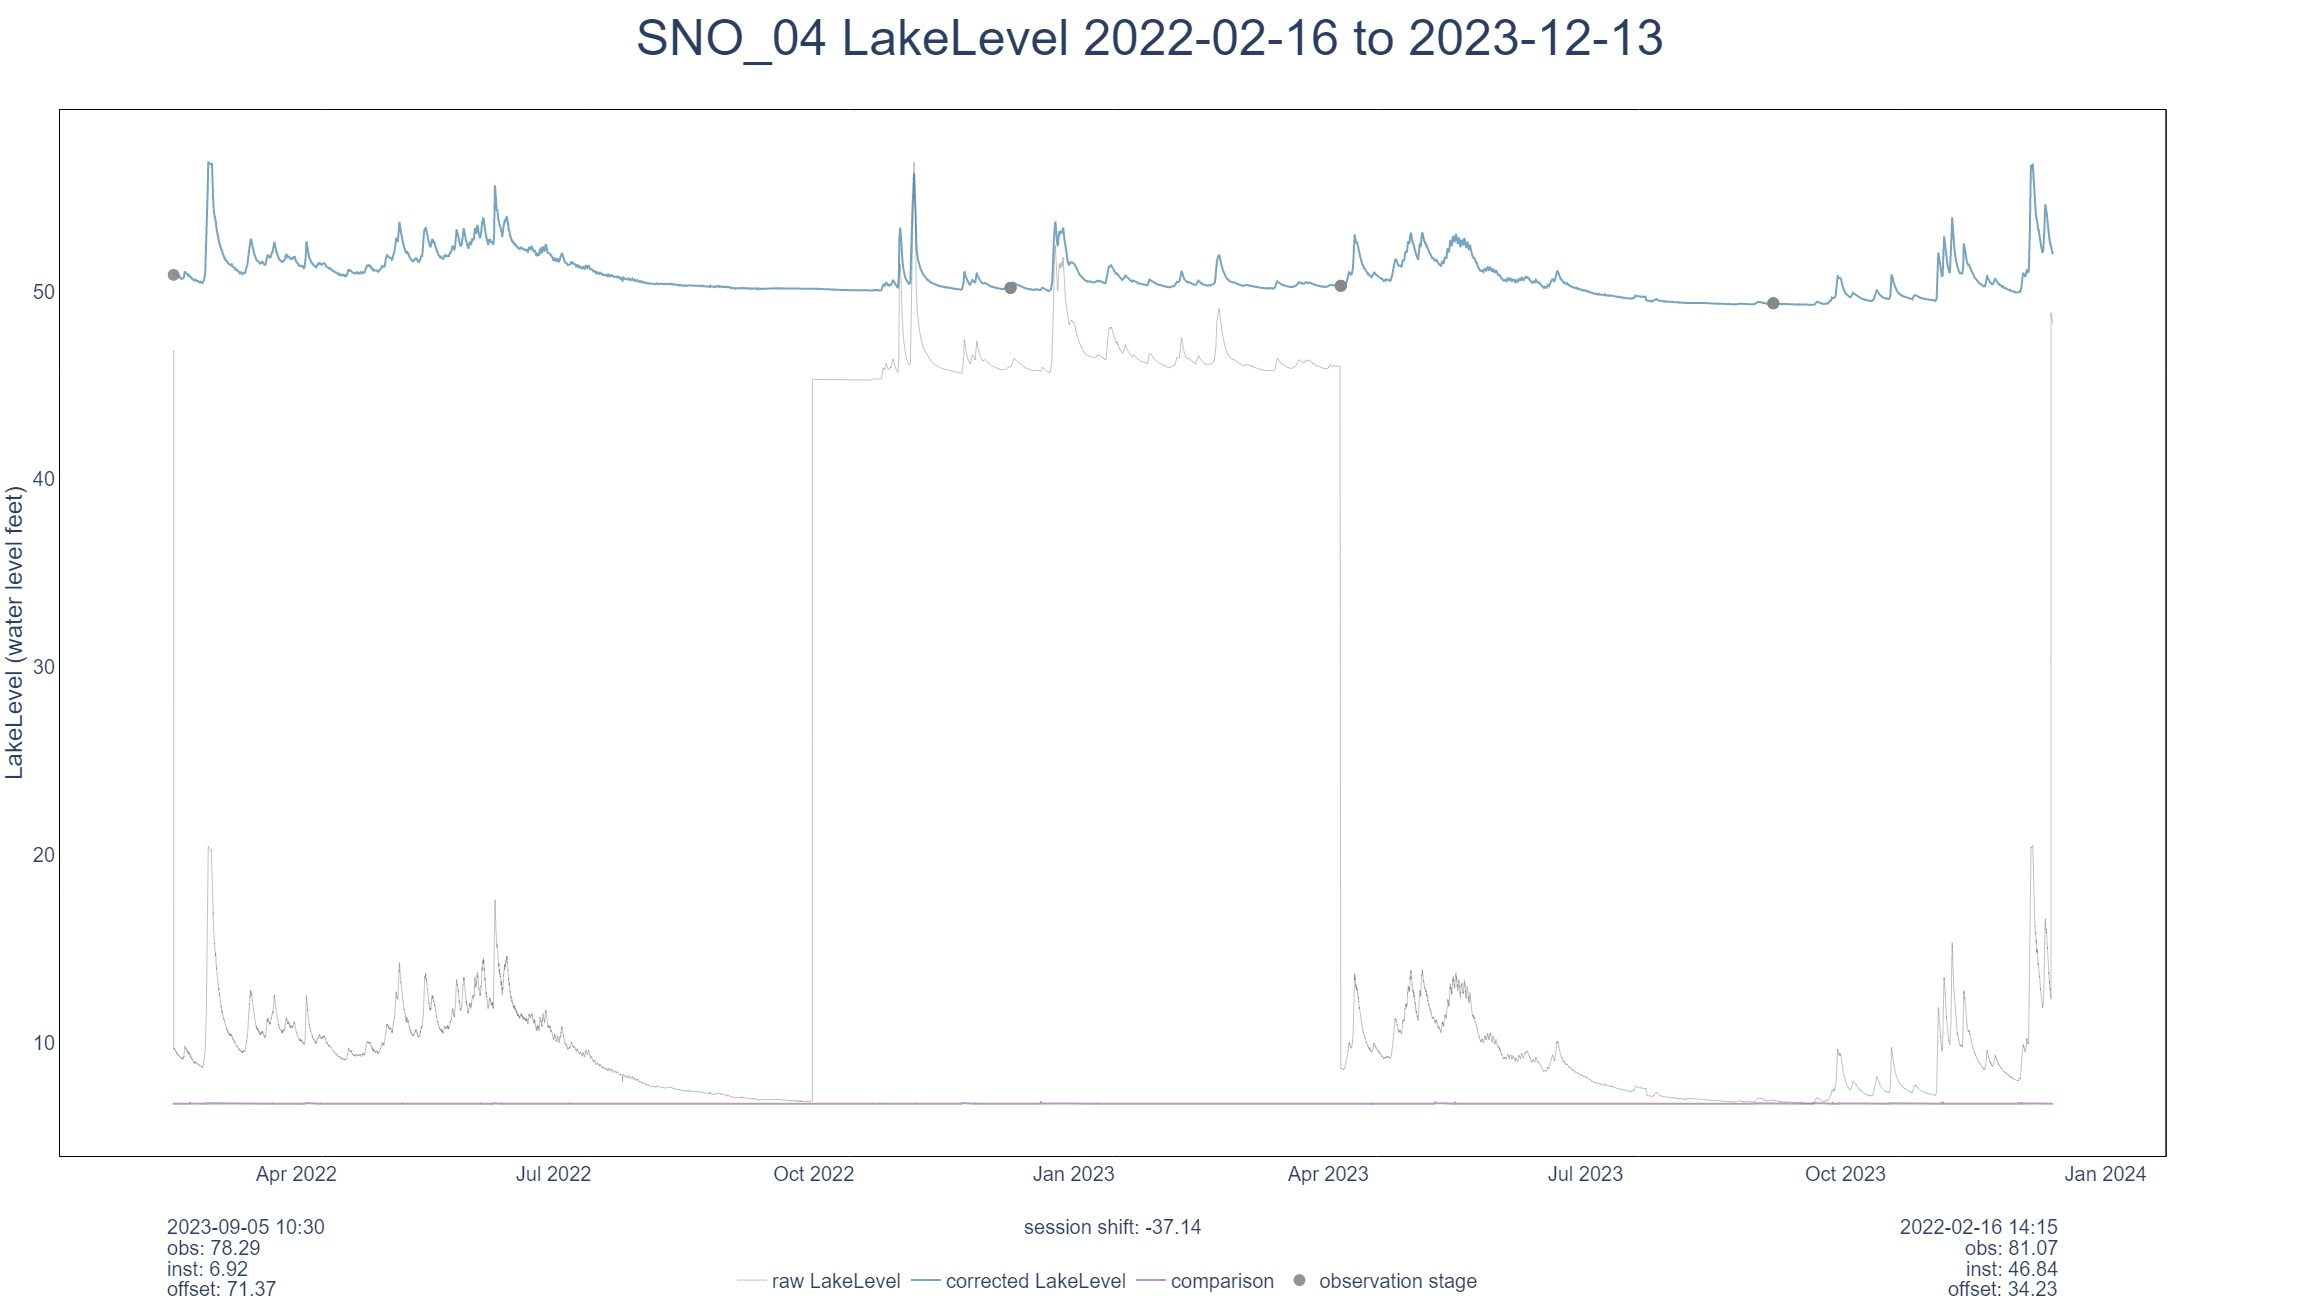
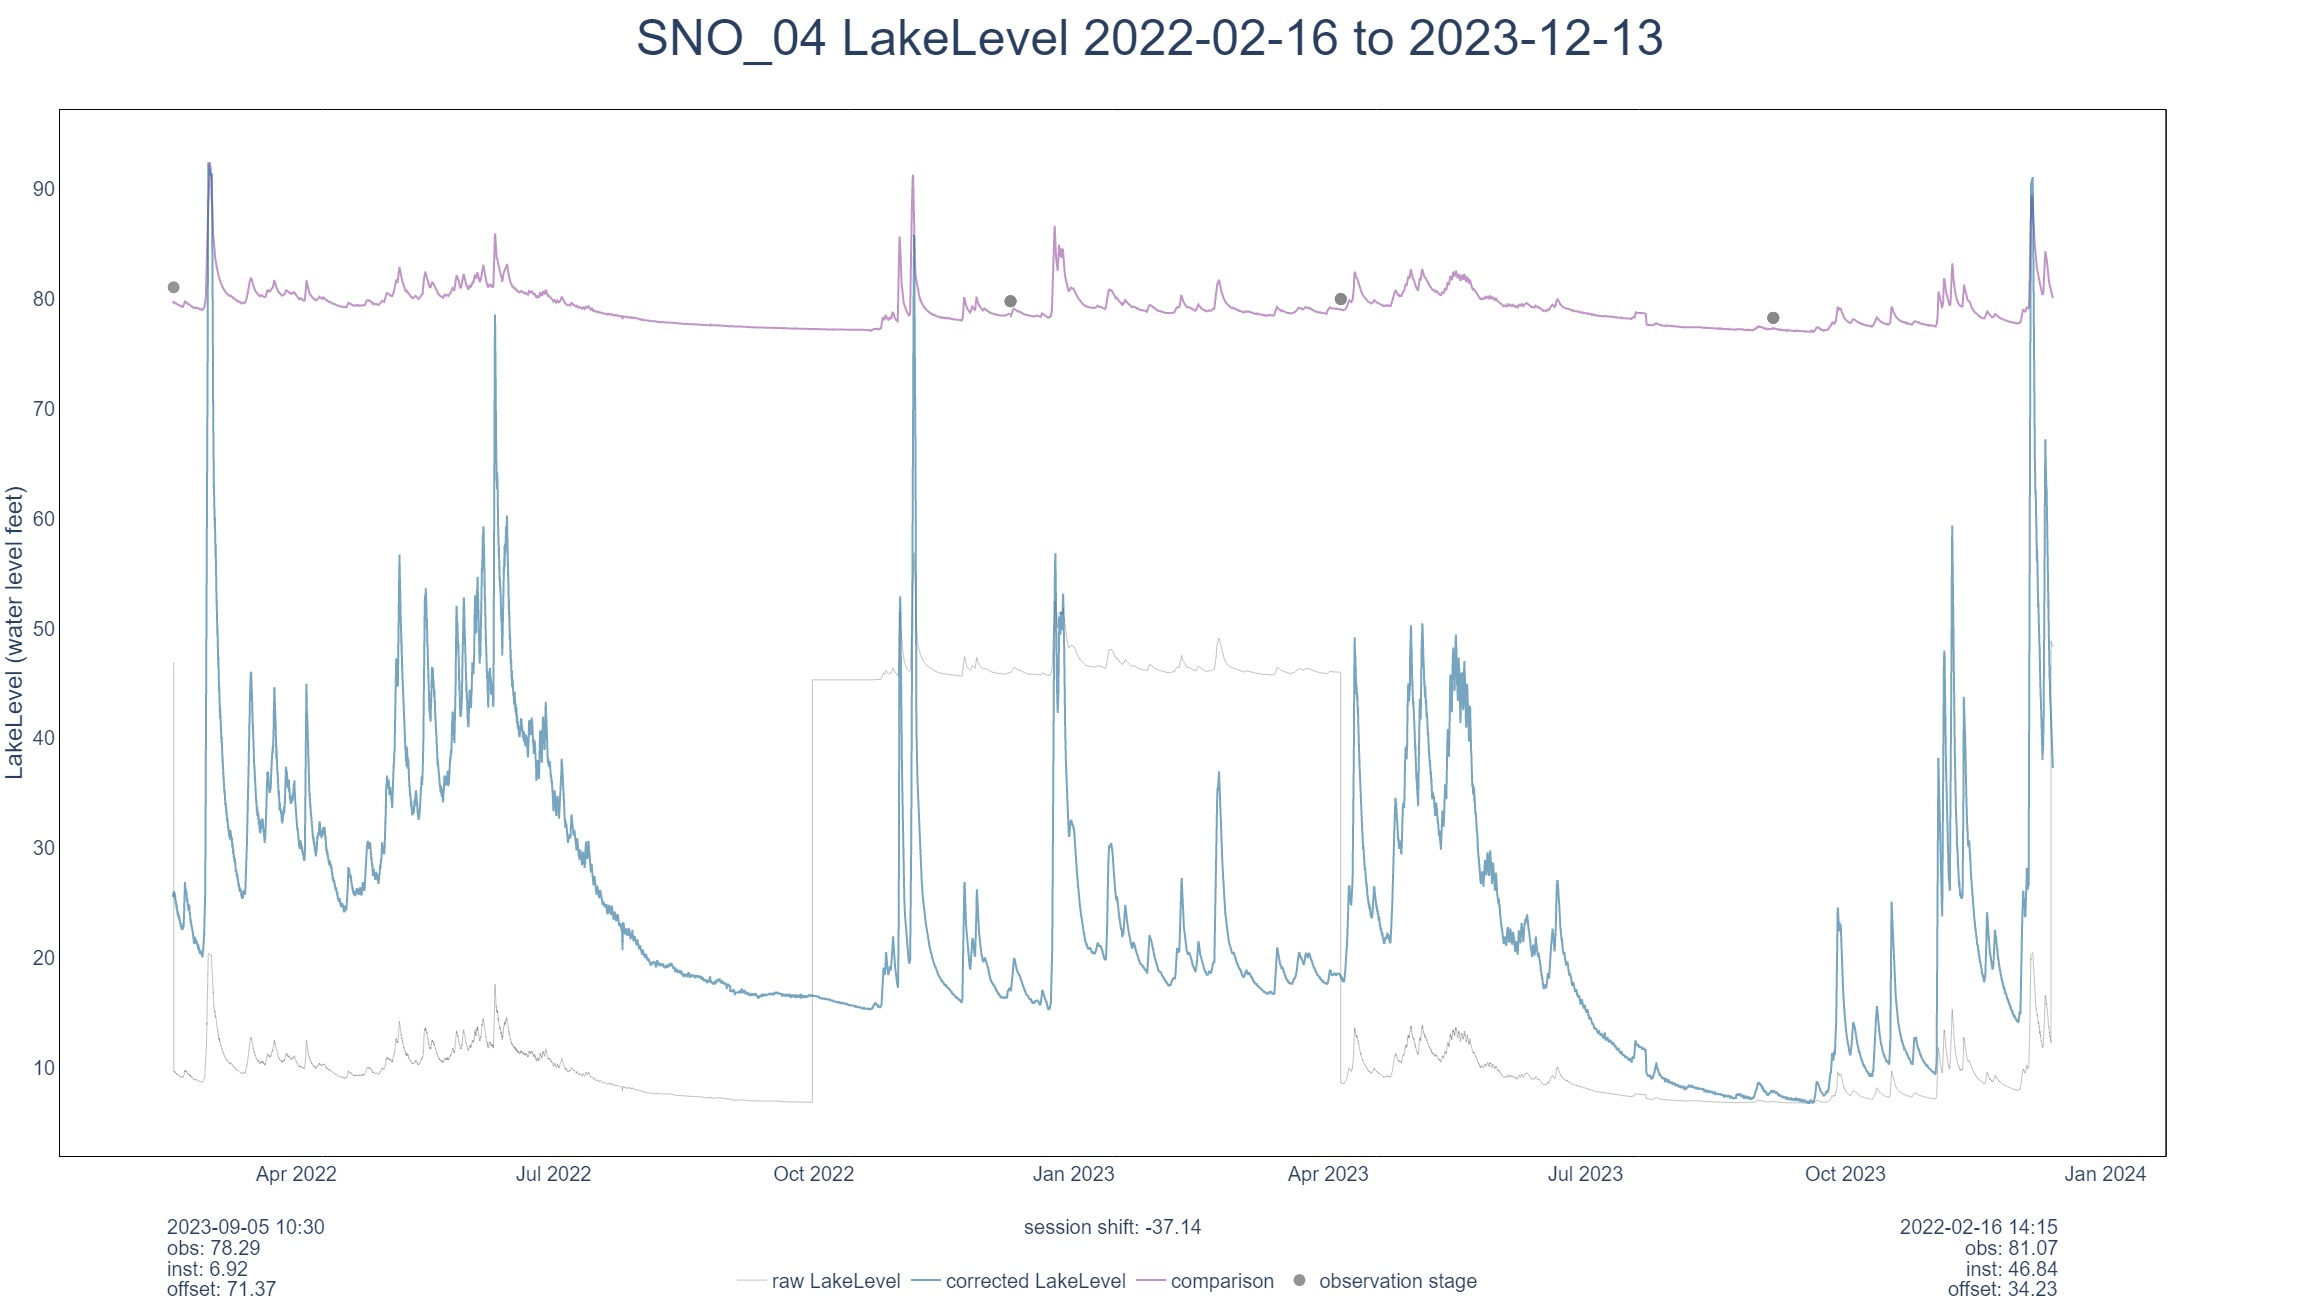
updated interpolation

diff --git a/interpolation.py b/interpolation.py
@@ -359,15 +359,82 @@ def cache_comparison_interpolation(df, site, site_sql_id, parameter, start_date,
     #df = df.sort_values(by = ['relative_month'])
 
         # calculate difference
-        df['difference'] = abs(df['corrected_data']-df['comparison'])
-        df.loc[pd.isna(df['corrected_data']), "difference"] = np.nan
-        df.loc[pd.isna(df['comparison']), "difference"] = np.nan
+        #df['difference'] = abs(df['corrected_data']-df['comparison'])
+        #df.loc[pd.isna(df['corrected_data']), "difference"] = np.nan
+        #f.loc[pd.isna(df['comparison']), "difference"] = np.nan
 
 
-        # rolling daily mean
-        ### 7 day rolling average parameter
-        #df[f'daily_rolling_mean'] = df.groupby(["watershed", "water_year"])[f"{parameter}_daily_mean"].transform(lambda x: x.rolling(7,7, center = True, closed = 'both').mean()).round(2)
+        #df["90_precentile_year_month"] = df.groupby(["year", "month"])["corrected_data"].transform(lambda x: x.quantile(0.1)).round(2)
+        #df["c_90_precentile_year_month"] = df.groupby(["year","month"])["corrected_data"].transform(lambda x: x.quantile(0.1)).round(2)
+        
+        
+        
+        # precent change
+        # Calculate percentage change
+        #df['pct_change'] = df['corrected_data'].pct_change(fill_method = None)
+        #df['avg_pct_change'] = df['pct_change'].mean()
 
+        #df['c_pct_change'] = df['comparison'].pct_change(fill_method = None)
+        #df['c_avg_pct_change'] = df['c_pct_change'].mean()
+
+        #df.loc[df['pct_change'] == 0, "direction"] = 0
+        #df.loc[df['pct_change'] > 0, "direction"] = 1
+        #df.loc[df['pct_change'] < 0, "direction"] = -1
+
+        #df.loc[df['c_pct_change'] == 0, "c_direction"] = 0
+        #df.loc[df['c_pct_change'] > 0, "c_direction"] = 1
+        #df.loc[df['c_pct_change'] < 0, "c_direction"] = -1
+       
+        #df["long_term_mean"] = df.loc[~df["corrected_data"].isnull(), "long_term_mean"] = df["corrected_data"].mean()
+        #df["c_long_term_mean"] = df.loc[~df["comparison"].isnull(), "c_long_term_mean"] = df["comparison"].mean()
+
+        # high/low pulse count
+        # identify pulses above long-term-mean *2 and long-term-mean/2 and stores to 'pulse'
+        #df.loc[(~df["corrected_data"].isnull()) & (df['corrected_data'] <= df['long_term_mean']/2), "pulse"] = "low_pulse"
+        #df.loc[(~df["corrected_data"].isnull()) & (df['corrected_data'] >= df['long_term_mean']*2), "pulse"] = "high_pulse"
+        #df.loc[(~df["corrected_data"].isnull()) & (df['corrected_data'] >= df['long_term_mean']*2) & (df["pulse"].isnull()) , "pulse"] = "false"
+        #df["pulse"].fillna('false', inplace=True)
+
+        #df.loc[(~df["comparison"].isnull()) & (df['comparison'] <= df['c_long_term_mean']/2), "c_pulse"] = "low_pulse"
+        #df.loc[(~df["comparison"].isnull()) & (df['comparison'] >= df['c_long_term_mean']*2), "c_pulse"] = "high_pulse"
+        #df.loc[(~df["comparison"].isnull()) & (df['comparison'] >= df['c_long_term_mean']*2) & (df["c_pulse"].isnull()) , "c_pulse"] = "false"
+        
+        
+        
+        
+        #["c_pulse"].fillna('false', inplace=True)
+
+        #df["90_precentile_difference"] = df["90_precentile"]-df["c_90_precentile"]
+        #### 95th precentile (low)
+      
+        #### 90th precentile (low)
+        #df["90_precentile"] = df["corrected_data"].quantile(0.1).round(2)
+        #df["c_90_precentile"] = df["comparison"].quantile(0.1).round(2)
+       
+        #### 90th precentile (low)
+        #df["90_precentile_monthly"] = df.groupby(["month"])["corrected_data"].transform(lambda x: x.quantile(0.1)).round(2)
+        #df["c_90_precentile_monthly"] = df.groupby(["month"])["comparison"].transform(lambda x: x.quantile(0.1)).round(2)
+        #df["90_precentile_difference"] = (df["90_precentile_monthly"]-df["c_90_precentile_monthly"]).round(2)
+
+
+
+        ### 10th precentile (high flow)
+        #df["05_precentile_monthly"] = df.groupby(["month"])["corrected_data"].transform(lambda x: x.quantile(0.95)).round(2)
+        #df["c_05_precentile_monthly"] = df.groupby(["month"])["comparison"].transform(lambda x: x.quantile(0.95)).round(2)
+        #df["05_precentile_difference"] = (df["05_precentile_monthly"]-df["c_05_precentile_monthly"]).round(2)
+       
+      
+
+        #print("search")
+        #df["fill"] = np.nan
+        #df.loc[(df["fill"].isnull()) & (~df['comparison'].isnull()) & (df['comparison'] <= df["c_90_precentile_monthly"]), "fill"] = df["comparison"] + df["90_precentile_difference"]
+        #df.loc[(~df['comparison'].isnull()) & (df['comparison'] <= df["c_90_precentile_monthly"]), "90_precentile_fill"] = df["comparison"] + df["90_precentile_difference"]
+        
+        #df.loc[(df["fill"].isnull()) & (~df['comparison'].isnull()) & (df['comparison'] <= df["c_80_precentile_monthly_rolling"]), "fill"] = df["comparison"] + df["80_precentile_difference"]
+        #df.loc[(~df['comparison'].isnull()) & (df['comparison'] <= df["c_80_precentile_monthly_rolling"]), "80_precentile_fill"] = df["comparison"] + df["80_precentile_difference"]
+
+        #df.loc[(df["fill"].isnull()) & (~df['comparison'].isnull()) & (df['comparison'] >= df["c_05_precentile_monthly"]), "fill"] = df["comparison"] + df["05_precentile_difference"]
+        #df.loc[(~df['comparison'].isnull()) & (df['comparison'] >= df["c_05_precentile_monthly"]), "05_precentile_fill"] = df["comparison"] + df["05_precentile_difference"]
         # rolling sum
         #df['rolling_sum'] = df['companion'].rolling(window=3, min_periods=1).sum()
         #df = df.sort_values(by=['c_relative_water_year', 'c_relative_month', "datetime"], ascending=True)
@@ -381,14 +448,39 @@ def cache_comparison_interpolation(df, site, site_sql_id, parameter, start_date,
        
         # this works the best so far because anything at day resolution cuts off peaks 
         # sort by average parameter then month
-
+        
         # this actually worked the best
-        df.loc[df['data'].isnull() | (df['data'] == ''), 'data'] = df["comparison"]
+      
+        #set estimate to numeric
+        df['estimate'] = pd.to_numeric(df['estimate'], errors='coerce')
+        # set estimate to true
+        df.loc[pd.isna(df["data"]), 'estimate'] = 1
+        # delete estimated data
+        df.loc[(df['estimate'].isnull() | df['estimate'] == 1), 'data'] = np.nan
+        df.loc[(df['estimate'].isnull() | df['estimate'] == 1), 'corrected_data'] = np.nan
+        
+        # if row estimate is going from zero to 1 set 
+        #update_observation_stage = 
 
+        # Apply the lambda function to update observation_stage column
+        #update_observation_stage = lambda x: x['corrected_data'] if x['estimate'] == 1 and x.shift(1)['estimate'] == 0 else x['observation_stage']
+        # calculate interpolation offset
+        df.loc[(~pd.isna(df["comparison"]) & ~pd.isna(df["data"])), "interpolation_offset"] = df["comparison"] - df['data']
+        # fill offset
+        df["interpolation_offset"].interpolate( method='linear', inplace=True, axis=0, limit_direction='both')
+        df.loc[pd.isna(df["data"]), 'data'] = df["comparison"]-df["interpolation_offset"]
+        df = df.drop(columns=["interpolation_offset"])
+
+        # calculate interpolation offset
+        df.loc[(~pd.isna(df["comparison"]) & ~pd.isna(df["corrected_data"])), "interpolation_offset"] = df["comparison"] - df['corrected_data']
+        # fill offset
+        df["interpolation_offset"].interpolate( method='linear', inplace=True, axis=0, limit_direction='both')
+        df.loc[pd.isna(df["corrected_data"]), 'corrected_data'] = df["comparison"]-df["interpolation_offset"]
+        df = df.drop(columns=["interpolation_offset"])
+        
         #df = df.sort_values([f"comparison", "month"], ascending=True)
         #df["corrected_data"] = df["corrected_data"].fillna(method = "bfill")
         
-
 
         
         #df = df.sort_values(["c_relative_month", "comparison"], ascending=True)
@@ -455,70 +547,42 @@ def cache_comparison_interpolation(df, site, site_sql_id, parameter, start_date,
         df = df.drop(columns=["c_day_mean"])
 
         df = df.drop(columns=['c_relative_month'])
-        # drop difference
-        df = df.drop(columns=['difference'])
+        
 
 
         df = df.drop(columns=['c_relative_water_year'])
         df = df.drop(columns=['water_year'])
 
-        #df = df.drop(columns=['mean_rolling_sum'])
-        #df = df.drop(columns=['rolling_sum'])
-        
-        #df["comparison"]
-    #    df["difference"] = df["corrected_data"] - df["comparison"]
 
-    #    df["c_month_mean"] = df.groupby(["month"])["comparison"].transform("mean")
-    #    df["week"] = df.datetime.dt.strftime('%U')
-    #    df["c_week_mean"] = df.groupby(["week"])["comparison"].transform("mean")
-   
-   
-    '''
-    if "comparison" in df.columns(): # if there is something to compare with
-        # create constrain columns
-        #df['min'] = df.groupby(["corrected_data"])[parameter].transform("min").round(2)   
-        #df['max'] = df.groupby(["corrected_data"])[parameter].transform("max").round(2)  
-    
-        #if (parameter == "discharge") or (parameter == "water_temperature"):
-           
-            # sort by datetime
-        df = df.sort_values(["datetime"], ascending=False)
-            # create month helper column
-            # since data is sorted on datetime, data should sort within the month, month provides a good balance in resolution
-        #df["month"] = df.datetime.dt.strftime('%m')
-        df = df.sort_values(['datetime'], ascending=True)
-
-            # grouping by watershed doesnt do anything because zero values for watershed wont be filled
-        df[f'average_{parameter}'] = df.groupby(["datetime"])[["corrected_data", "comparison"]].transform("mean").round(2)
-        
-            # this works the best so far because anything at day resolution cuts off peaks 
-            # sort by average parameter then month
-        df = df.sort_values([f"average_{parameter}"], ascending=True)
-        
-            # this works pretty well
-        df["corrected_data"] = df["corrected_data"].fillna(method = "bfill")
-        df["corrected_data"] = df["corrected_data"].fillna(method = "bfill")
-        #df["corrected_data"] = df.groupby(["watershed"])[parameter].fillna(method = "bfill")
-        df = df.drop(columns=["month"])
-        df.reset_index(inplace=True)
-            # turn less then zeros into zeros, only a few -.01 values that should really be zero
-        if parameter == "water_temperature":
-            df.loc[df[parameter] < 0, parameter]  = 0
-
-        
-        print("comparison interpolation complete3")
        
-        print(df)
-        # filter by constraints
-        # set data greater then max to max value
-        #df.loc[df[parameter] > df['max'], parameter] = df['max']
-        # set data less then min value to value
-        #df.loc[df[parameter] < df['min'], parameter] = df['min']
-        # graph
-        #average_value_graph(df, parameter, study)
-        #df = df.drop([f'average_{parameter}'], axis=1)
+
+        #df = df.drop(columns=[f'quantile'])
+        #df = df.drop(columns=[f'c_quantile'])
+
+        #df = df.drop(columns=[f"90_precentile"])
+        #df = df.drop(columns=[f"c_90_precentile"])
+
         
-        '''
+    
+
+        #df = df.drop(columns=[f"90_precentile_monthly"])
+        #df = df.drop(columns=[f"c_90_precentile_monthly"])
+        #df = df.drop(columns=[f"90_precentile_difference"])
+
+        
+        #df = df.drop(columns=[f"05_precentile_monthly"])
+        #df = df.drop(columns=[f"c_05_precentile_monthly"])
+        #df = df.drop(columns=[f"05_precentile_difference"])
+
+        #df = df.drop(columns=[f"fill"])
+        #df = df.drop(columns=[f"90_precentile_fill"])
+        #df = df.drop(columns=[f"80_precentile_fill"])
+        #df = df.drop(columns=[f"05_precentile_fill"])
+
+        
+
+       
+       
 
     df = df.sort_values(by='datetime', ascending=True)
     #df.to_csv(r"C:/Users/ihiggins/OneDrive - King County/Documents/df_relative_wy.csv")
